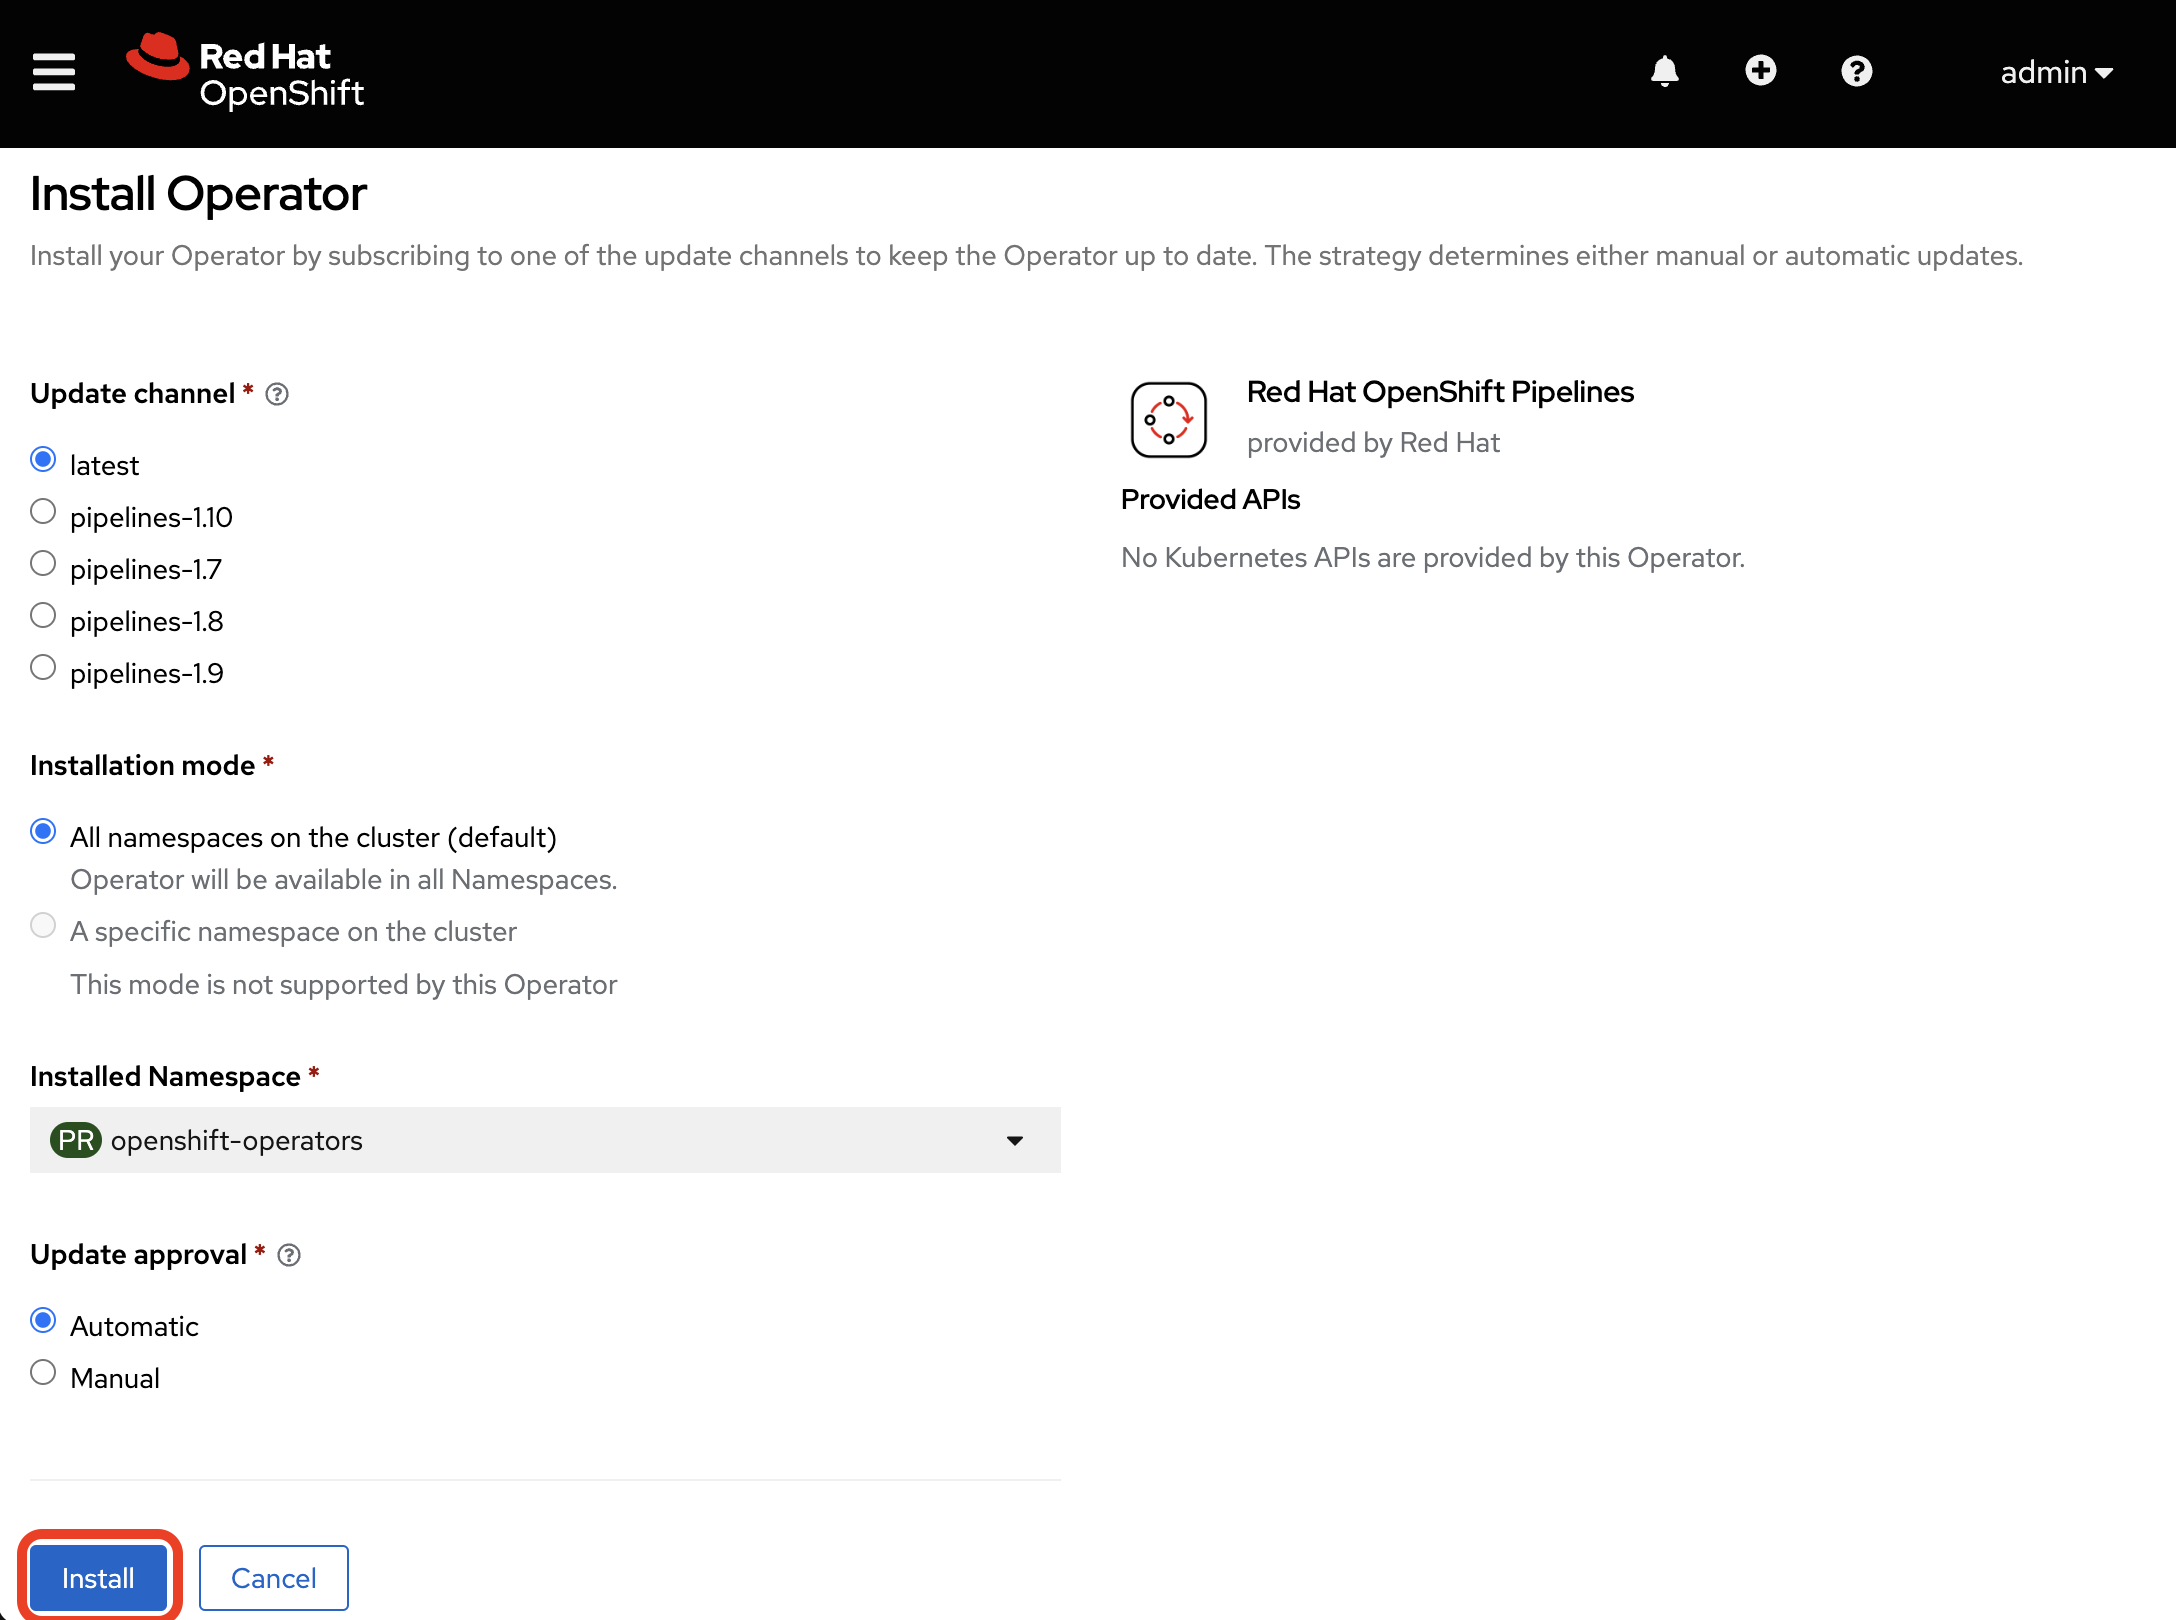
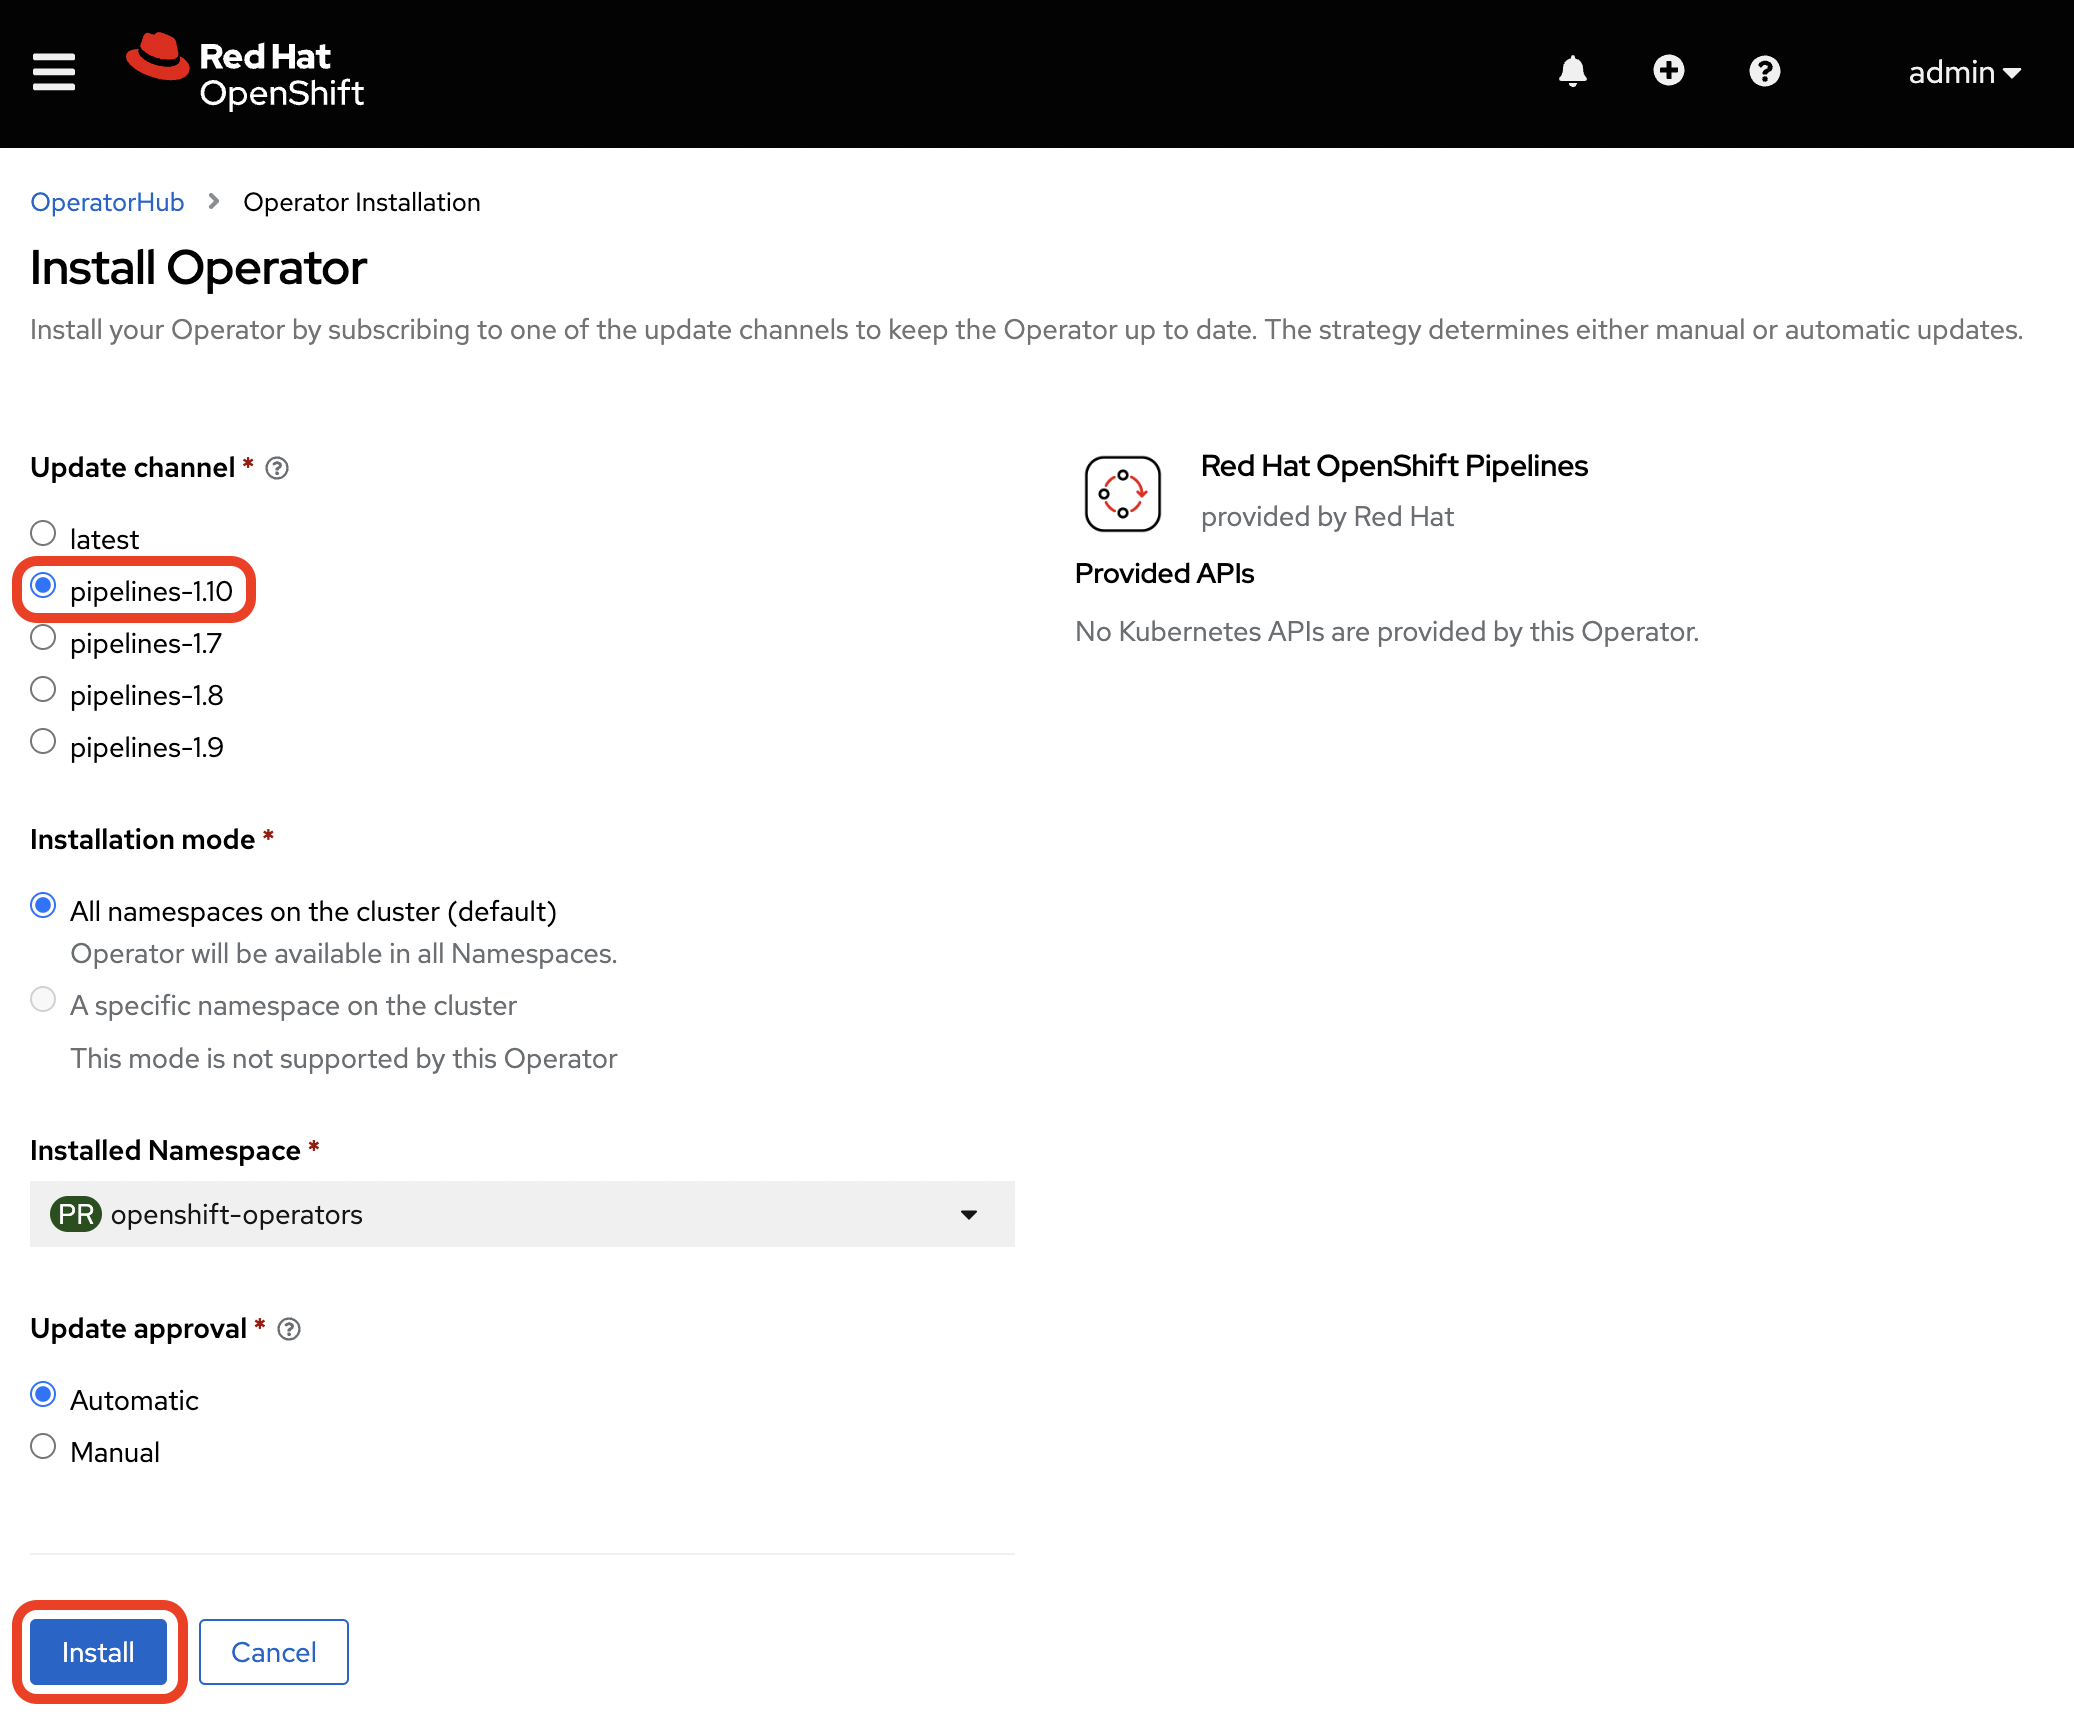
Pipelines updates [1/2]

diff --git a/instruqt-tracks/gitops-pipelines/01-01install-op/assignment.md b/instruqt-tracks/gitops-pipelines/01-01install-op/assignment.md
@@ -84,11 +84,11 @@ Use the _Filter by keyword_ box to search for `Red Hat OpenShift Pipelines` in t
 
 Read the brief description of the Operator on the _Red Hat OpenShift Pipelines_ page. Click _Install_.
 
-Select _All namespaces on the cluster (default)_ for installation mode & _Automatic_ for the approval strategy. Click Subscribe!
+Select _pipelines-1.9_ for the Update channel, _All namespaces on the cluster (default)_ for installation mode, & _Automatic_ for the approval strategy. Click Install!
 
 ![Web Console Login](https://raw.githubusercontent.com/openshift-instruqt/instruqt/master/assets/middleware/pipelines/web-console-settings.png)
 
-The installation may take a minute or two, but once complete, you'll now have installed the *OpenShift Pipelines Operator* to your OpenShift Cluster!
+The installation may take a minute, but once complete, you'll now have installed the *OpenShift Pipelines Operator* to your OpenShift Cluster!
 
 ![Operator Installed](https://raw.githubusercontent.com/openshift-instruqt/instruqt/master/assets/middleware/pipelines/operator-installed.png)
 
